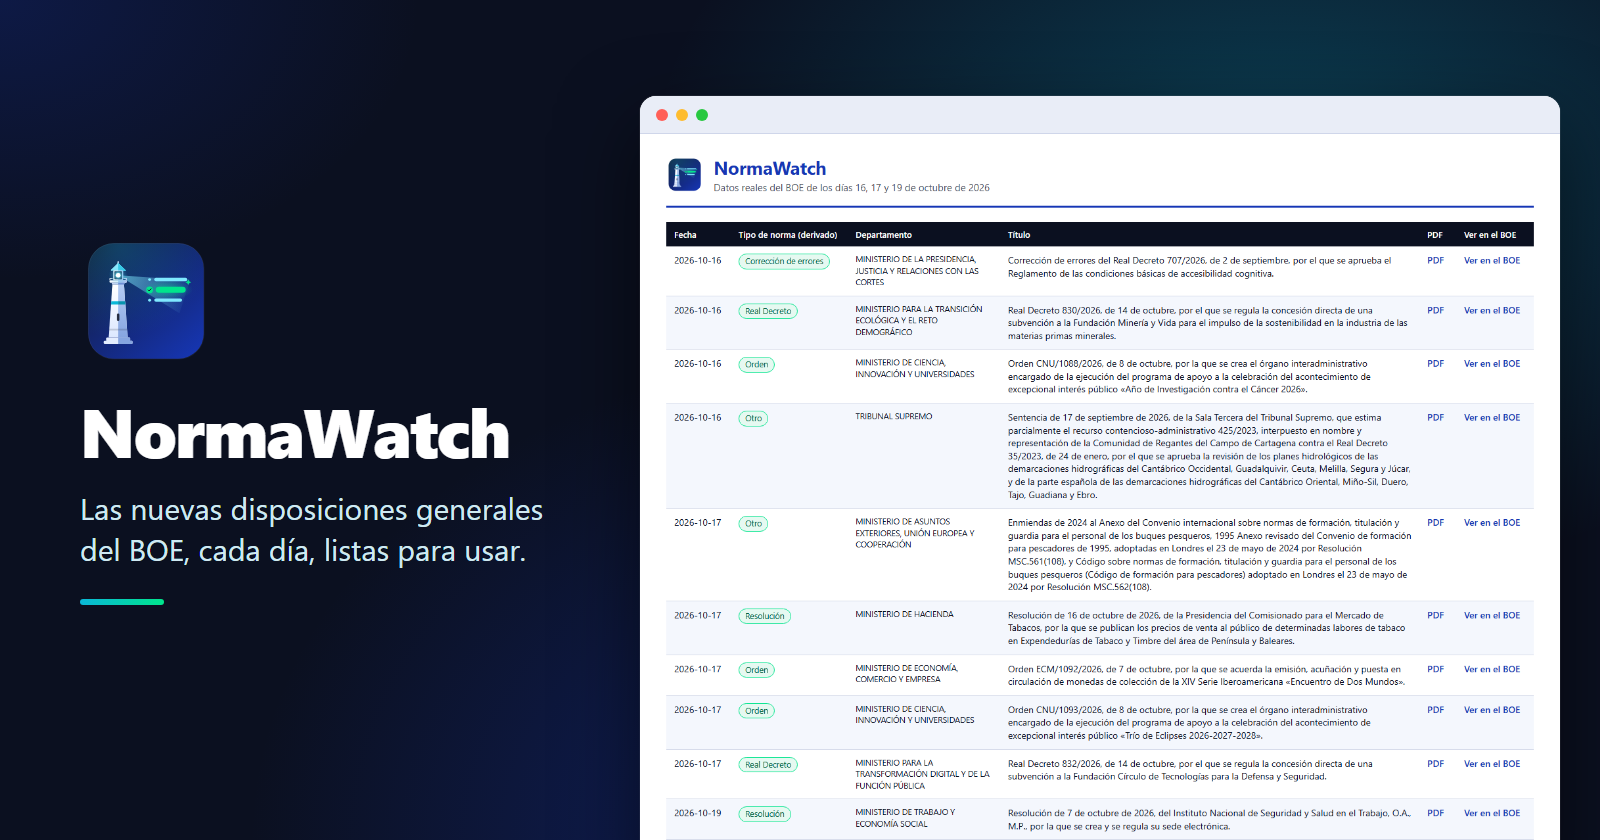
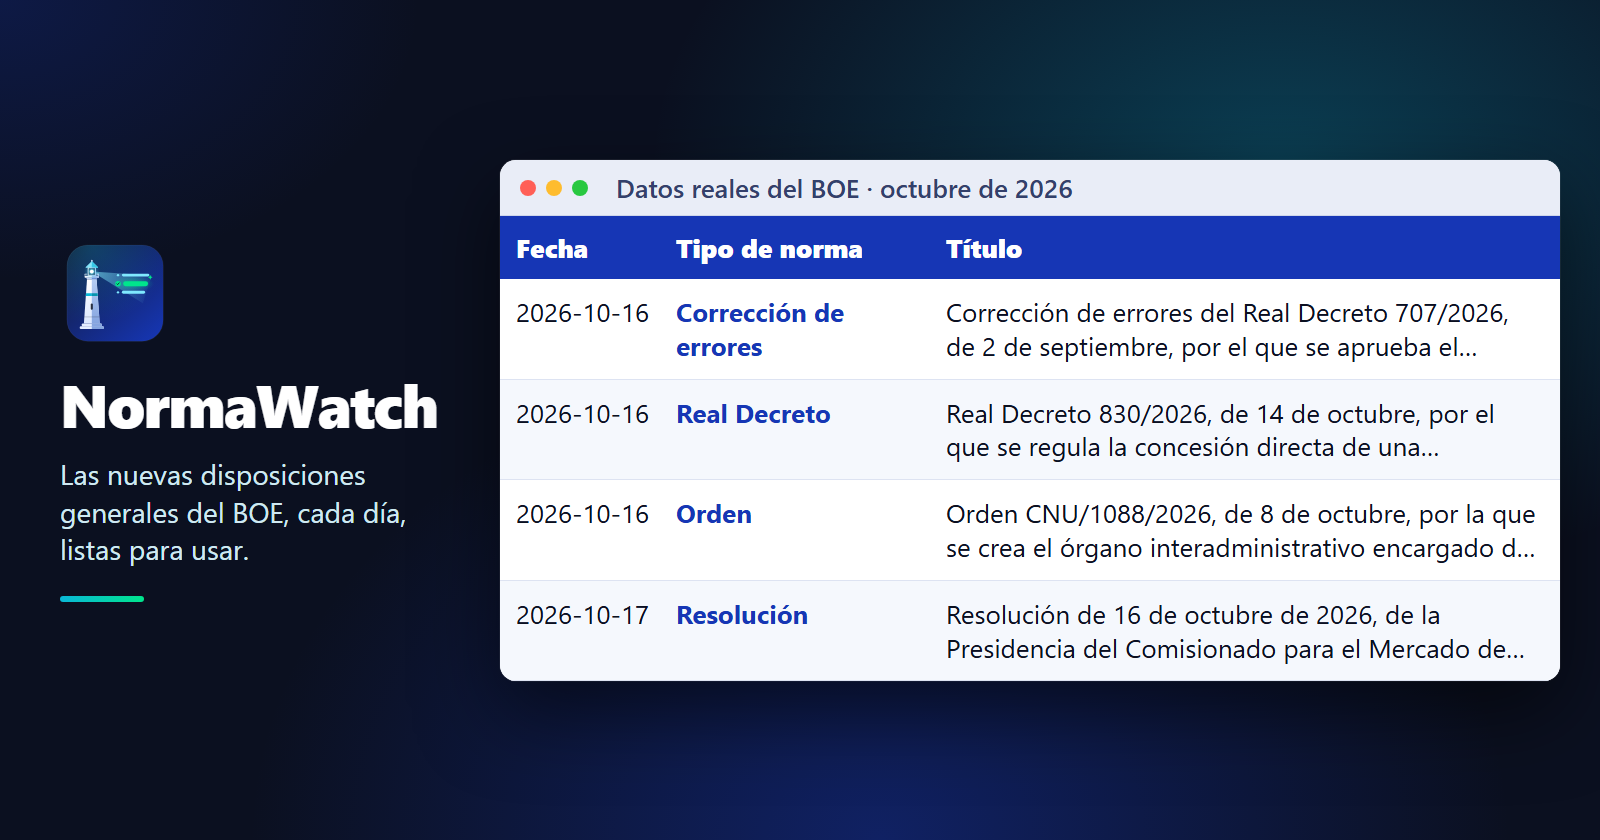
Hace legible la imagen de portada del README

diff --git a/README.md b/README.md
@@ -6,11 +6,11 @@
 
 **Las nuevas disposiciones generales del BOE, cada día, listas para usar.**
 
-<img src="https://img.shields.io/badge/Versi%C3%B3n-1.1.0-1636B5?style=flat" alt="Versión 1.1.0"> <img src="https://img.shields.io/badge/Licencia-MIT-0AB8D8?style=flat" alt="Licencia MIT"> <img src="https://img.shields.io/badge/Actor%20de%20Apify-00E58C?style=flat" alt="Actor de Apify"> <img src="https://img.shields.io/badge/Node.js-24-339933?style=flat" alt="Node.js 24"> <img src="https://img.shields.io/badge/Fuente-BOE-0B1020?style=flat" alt="Fuente BOE">
+<img src="https://img.shields.io/badge/Versi%C3%B3n-1.1.0-1636B5?style=flat" alt="Versión 1.1.0"> <img src="https://img.shields.io/badge/Licencia-MIT-0AB8D8?style=flat" alt="Licencia MIT"> <img src="https://img.shields.io/badge/Actor%20de%20Apify-00E58C?style=flat" alt="Actor de Apify"> <img src="https://img.shields.io/badge/Node.js-24-339933?style=flat" alt="Node.js 24"> <img src="https://img.shields.io/badge/Fuente-BOE-5B6B8C?style=flat" alt="Fuente BOE">
 
 </div>
 
-<p align="center"><img src="assets/muestras/portada.png" alt="Representación de la vista Resumen de NormaWatch con datos reales del BOE" width="100%"></p>
+<p align="center"><img src="assets/muestras/portada.png" alt="Vista de ejemplo de NormaWatch con cuatro filas de datos reales del BOE (fecha, tipo de norma y título)" width="100%"></p>
 
 **NormaWatch** es un **Actor de Apify** (así llama Apify a los programas que se ejecutan en su plataforma) que lista las nuevas **disposiciones generales** (sección I) del Boletín Oficial del Estado (BOE), solo con metadatos y enlaces, para que puedas vigilar la normativa nueva sin leer el sumario cada día. Está pensado para quien sigue la normativa española: asesorías, despachos, equipos de cumplimiento normativo y periodistas. Es **gratuito**: no tiene precio ni suscripción.
 
